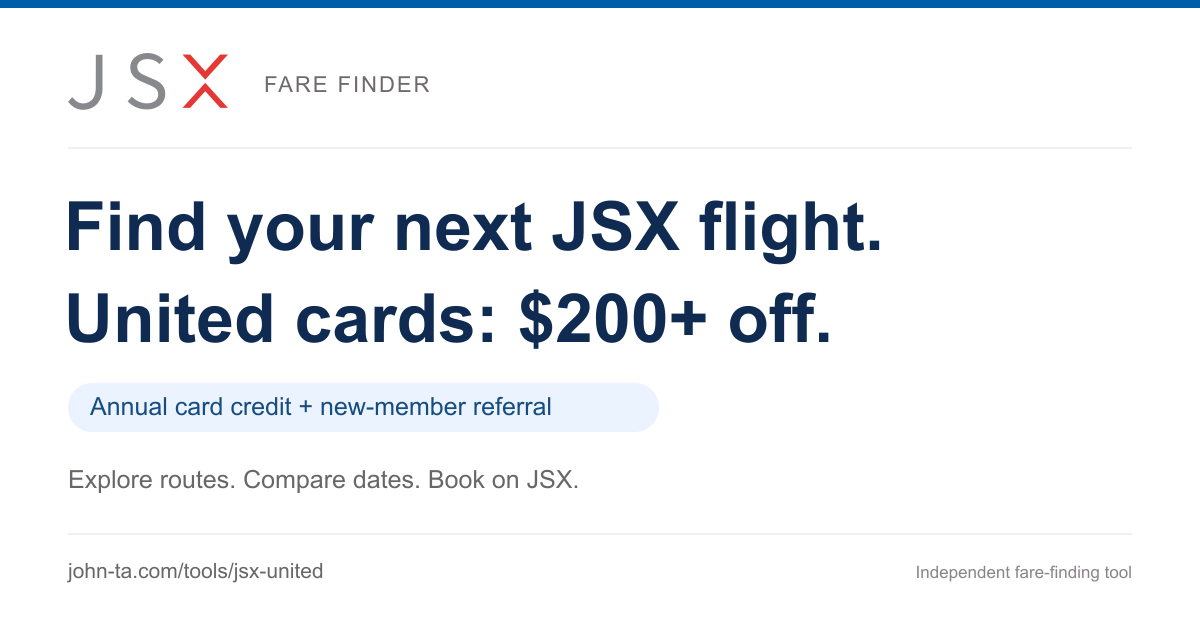
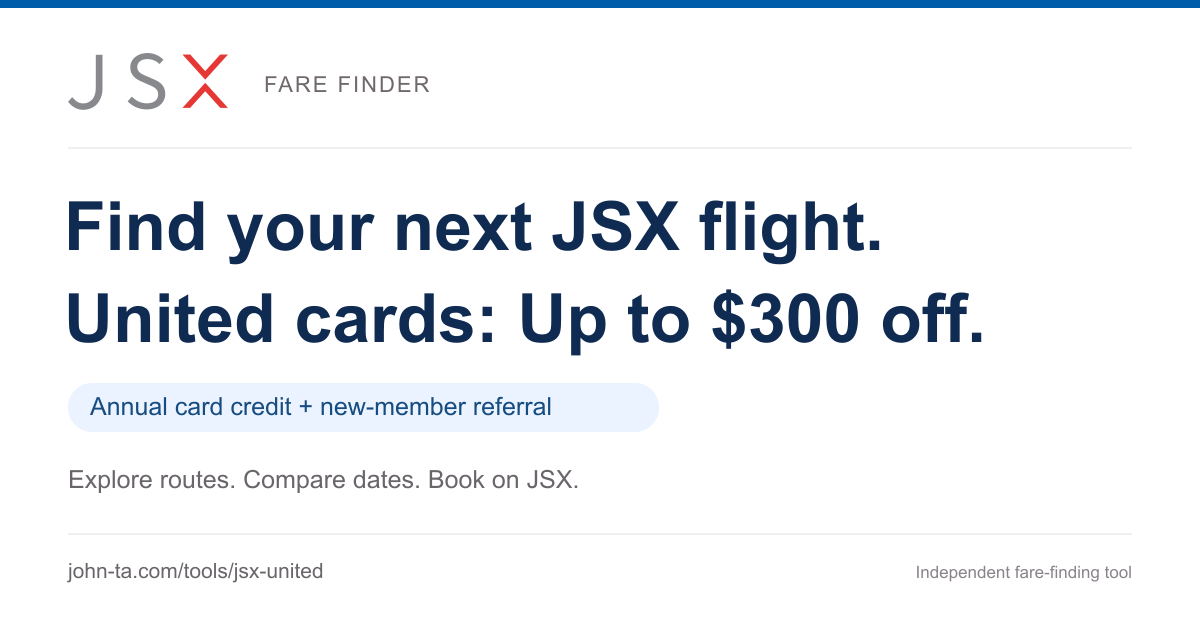
Update United JSX title to Up to $300 Off

Changed region(s): [[0.4317, 0.4524, 0.8325, 0.573]]

diff --git a/tools/jsx-united/index.html b/tools/jsx-united/index.html
@@ -4,24 +4,24 @@
   <meta charset="utf-8">
   <meta name="viewport" content="width=device-width, initial-scale=1">
   <meta name="theme-color" content="#ffffff">
-  <title>JSX Flights for United Cards: $200+ Off · John Ta</title>
+  <title>JSX Flights for United Cards: Up to $300 Off · John Ta</title>
   <meta name="description" content="Find cheap JSX flights and learn how eligible United cards’ annual JSX credits and a $100 new-member referral can add up to $200–$300 in savings.">
-  <meta property="og:title" content="JSX Flights for United Cards: $200+ Off">
+  <meta property="og:title" content="JSX Flights for United Cards: Up to $300 Off">
   <meta property="og:description" content="Find cheap JSX fares. Combine up to $100–$200 in annual credits on eligible United cards with a $100 new-member referral, subject to terms.">
   <meta property="og:type" content="website">
   <meta property="og:url" content="https://www.john-ta.com/tools/jsx-united/">
   <link rel="canonical" href="https://www.john-ta.com/tools/jsx-united/">
-  <meta property="og:image" content="https://www.john-ta.com/tools/jsx-united/images/og-jsx.png">
-  <meta property="og:image:secure_url" content="https://www.john-ta.com/tools/jsx-united/images/og-jsx.png">
+  <meta property="og:image" content="https://www.john-ta.com/tools/jsx-united/images/og-jsx.png?v=20261108-3">
+  <meta property="og:image:secure_url" content="https://www.john-ta.com/tools/jsx-united/images/og-jsx.png?v=20261108-3">
   <meta property="og:image:type" content="image/png">
   <meta property="og:image:width" content="1200">
   <meta property="og:image:height" content="630">
-  <meta property="og:image:alt" content="JSX Flights for United Cards: $200+ off with eligible annual card credits and a new-member referral.">
+  <meta property="og:image:alt" content="JSX Flights for United Cards: Up to $300 off with eligible annual card credits and a new-member referral.">
   <meta name="twitter:card" content="summary_large_image">
-  <meta name="twitter:title" content="JSX Flights for United Cards: $200+ Off">
+  <meta name="twitter:title" content="JSX Flights for United Cards: Up to $300 Off">
   <meta name="twitter:description" content="Explore routes. Compare dates. View on JSX.">
-  <meta name="twitter:image" content="https://www.john-ta.com/tools/jsx-united/images/og-jsx.png">
-  <meta name="twitter:image:alt" content="JSX Flights for United Cards: $200+ off with eligible card credits and a new-member referral.">
+  <meta name="twitter:image" content="https://www.john-ta.com/tools/jsx-united/images/og-jsx.png?v=20261108-3">
+  <meta name="twitter:image:alt" content="JSX Flights for United Cards: Up to $300 off with eligible card credits and a new-member referral.">
   <link rel="icon" href="./favicon.svg" type="image/svg+xml">
   <link rel="icon" href="./favicon-32.png" type="image/png" sizes="32x32">
   <link rel="apple-touch-icon" href="./apple-touch-icon.png" sizes="180x180">
@@ -47,7 +47,7 @@
     <symbol id="i-warning" viewBox="0 0 24 24"><path d="m10.2 4-8 14A2 2 0 0 0 4 21h16a2 2 0 0 0 1.8-3l-8-14a2 2 0 0 0-3.6 0Z"/><path d="M12 9v4m0 4h.01"/></symbol>
   </defs></svg>
   <main class="shell">
-    <section class="intro"><h1>JSX Flights for United Cards: $200+ Off</h1><p>Sampled JSX fares for one adult. Use the tool to spot cheap routes and dates, then price your exact trip on JSX.</p><a class="browse-link map-jump" data-analytics-control="map_jump" href="#route-map">Explore the US route map ↓</a></section>
+    <section class="intro"><h1>JSX Flights for United Cards: Up to $300 Off</h1><p>Sampled JSX fares for one adult. Use the tool to spot cheap routes and dates, then price your exact trip on JSX.</p><a class="browse-link map-jump" data-analytics-control="map_jump" href="#route-map">Explore the US route map ↓</a></section>
     <div id="guide-restore" hidden><button type="button" id="show-guide" data-analytics-control="show_guide" aria-controls="offer-guide" aria-expanded="false">Show guide</button></div>
     <section class="offer" id="offer-guide" aria-labelledby="offer-title">
       <button type="button" id="hide-guide" data-analytics-control="hide_guide" aria-label="Hide offer guide" aria-controls="offer-guide">×</button>

diff --git a/jsx-united/index.html b/jsx-united/index.html
@@ -3,10 +3,10 @@
 <head>
   <meta charset="utf-8">
   <meta name="viewport" content="width=device-width, initial-scale=1">
-  <title>JSX Flights for United Cards: $200+ Off</title>
+  <title>JSX Flights for United Cards: Up to $300 Off</title>
   <link rel="canonical" href="https://www.john-ta.com/tools/jsx-united/">
   <script>location.replace('/tools/jsx-united/' + location.search + location.hash);</script>
   <meta http-equiv="refresh" content="0;url=/tools/jsx-united/">
 </head>
-<body><p><a href="/tools/jsx-united/">Open JSX Flights for United Cards: $200+ Off</a></p></body>
+<body><p><a href="/tools/jsx-united/">Open JSX Flights for United Cards: Up to $300 Off</a></p></body>
 </html>

diff --git a/tools/jsx-united/README.md b/tools/jsx-united/README.md
@@ -2,7 +2,7 @@
 
 Independent copy of `/tools/jsx/` at `/tools/jsx-united/`. The Reserve tool is unchanged. Static HTML, local fonts/assets, fare snapshot, searchable filters, direct JSX booking links, and route map are retained.
 
-The guide covers the annual direct-JSX benefit on United Explorer and Business ($100), Quest ($150), and Club and Club Business ($200). The $200+ headline includes an eligible $100 first-flight referral and assumes sufficient qualifying spending and the full annual benefit remaining. Savings are capped by the qualifying card charge and remaining annual allowance. There is no Reserve offer activation, December deadline, or $200 minimum-charge condition. Linked issuer terms and JSX referral terms were checked November 8, 2026.
+The guide covers the annual direct-JSX benefit on United Explorer and Business ($100), Quest ($150), and Club and Club Business ($200). The up to $300 headline combines an eligible card’s up to $200 annual JSX credit with an eligible $100 first-flight referral, assuming sufficient qualifying spending and the full annual benefit remaining. Savings are capped by the qualifying card charge and remaining annual allowance. There is no Reserve offer activation, December deadline, or $200 minimum-charge condition. Linked issuer terms and JSX referral terms were checked November 8, 2026.
 
 Filters, sorting, page size, page number, selected map route, expanded guide step (`guide=card-credit|referral|fares|booking`) and fare notes (`notes=1`) are URL state. Distinct navigation pushes history; continuous typing replaces the current edit. Reload, copied links and Back/Forward restore these views. Dismissal preferences use separate `jsx-united-…-v1` browser storage keys. No user records or drafts are collected.
 
